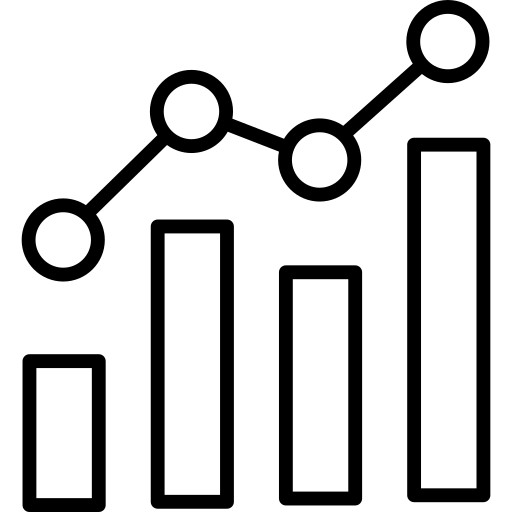
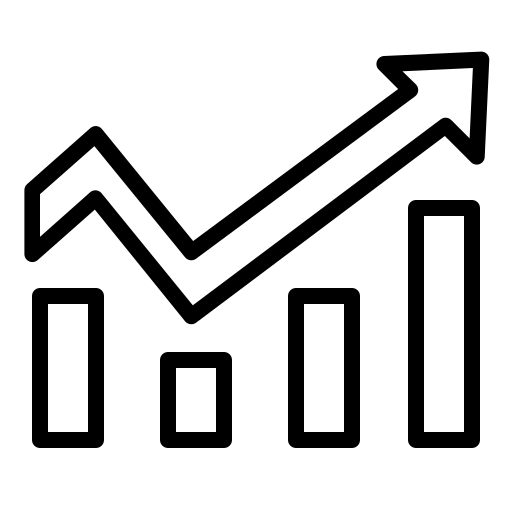
Создание страницы главного окна. Ильмашева

Changed region(s): [[0.0312, 0.0, 0.9688, 1.0]]

diff --git a/PermDynamics/Pages/Main.xaml b/PermDynamics/Pages/Main.xaml
@@ -1,0 +1,30 @@
+<Page x:Class="PermDynamics.Pages.Main"
+      xmlns="http://schemas.microsoft.com/winfx/2006/xaml/presentation"
+      xmlns:x="http://schemas.microsoft.com/winfx/2006/xaml"
+      xmlns:mc="http://schemas.openxmlformats.org/markup-compatibility/2006" 
+      xmlns:d="http://schemas.microsoft.com/expression/blend/2008" 
+      xmlns:local="clr-namespace:PermDynamics.Pages"
+      mc:Ignorable="d" 
+      d:DesignHeight="410" d:DesignWidth="782"
+      Title="Main">
+
+    <Grid>
+        <Grid.ColumnDefinitions>
+            <ColumnDefinition Width="53*"/>
+            <ColumnDefinition Width="34*"/>
+        </Grid.ColumnDefinitions>
+        <Grid.Background>
+            <ImageBrush ImageSource="/Images/chart.jpg"/>
+        </Grid.Background>
+        <Label Content="PermDynamics" HorizontalAlignment="Center" Margin="113,279,102.8,72.6" VerticalAlignment="Center"
+               Foreground="White" FontSize="36" FontWeight="Bold" Height="58" Width="261"/>
+        <Image HorizontalAlignment="Center" Height="100" Margin="121,179,255.8,130.6" VerticalAlignment="Center" 
+               Width="100" Source="/Images/icon-white.png"/>
+        <Label Content="Укажите начальное значение акции: " Grid.Column="1" Margin="12.2,191,82.4,192.6" 
+               VerticalAlignment="Center" Foreground="White" Height="26" HorizontalAlignment="Center"/>
+        <TextBox x:Name="tb_value" Grid.Column="1" Height="25" Margin="12.2,217,10.4,167.6" VerticalContentAlignment="Center"
+                 TextWrapping="Wrap" Text="" VerticalAlignment="Center" HorizontalAlignment="Center" Width="283"/>
+        <Button Click="OpenPageChart" Content="Продолжить" Grid.Column="1" HorizontalAlignment="Center"
+                Margin="195.2,247,10.4,137.6" VerticalAlignment="Center" Width="100" Height="25" Background="White" BorderBrush="Black"/>
+    </Grid>
+</Page>

diff --git a/PermDynamics/Pages/Main.xaml.cs b/PermDynamics/Pages/Main.xaml.cs
@@ -1,0 +1,30 @@
+using System;
+using System.Collections.Generic;
+using System.Linq;
+using System.Text;
+using System.Threading.Tasks;
+using System.Windows;
+using System.Windows.Controls;
+using System.Windows.Data;
+using System.Windows.Documents;
+using System.Windows.Input;
+using System.Windows.Media;
+using System.Windows.Media.Imaging;
+using System.Windows.Navigation;
+using System.Windows.Shapes;
+
+namespace PermDynamics.Pages
+{
+    public partial class Main : Page
+    {
+        public Main()
+        {
+            InitializeComponent();
+        }
+
+        private void OpenPageChart(object sender, RoutedEventArgs e)
+        {
+
+        }
+    }
+}
